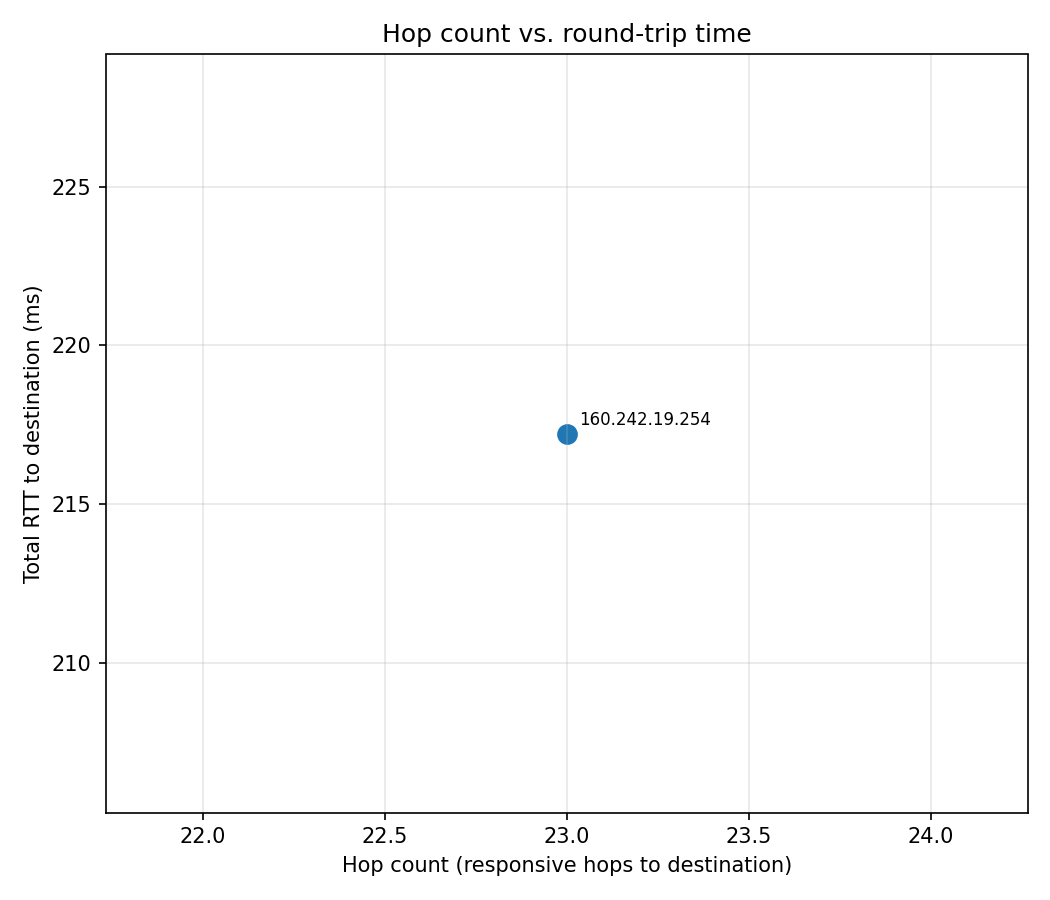
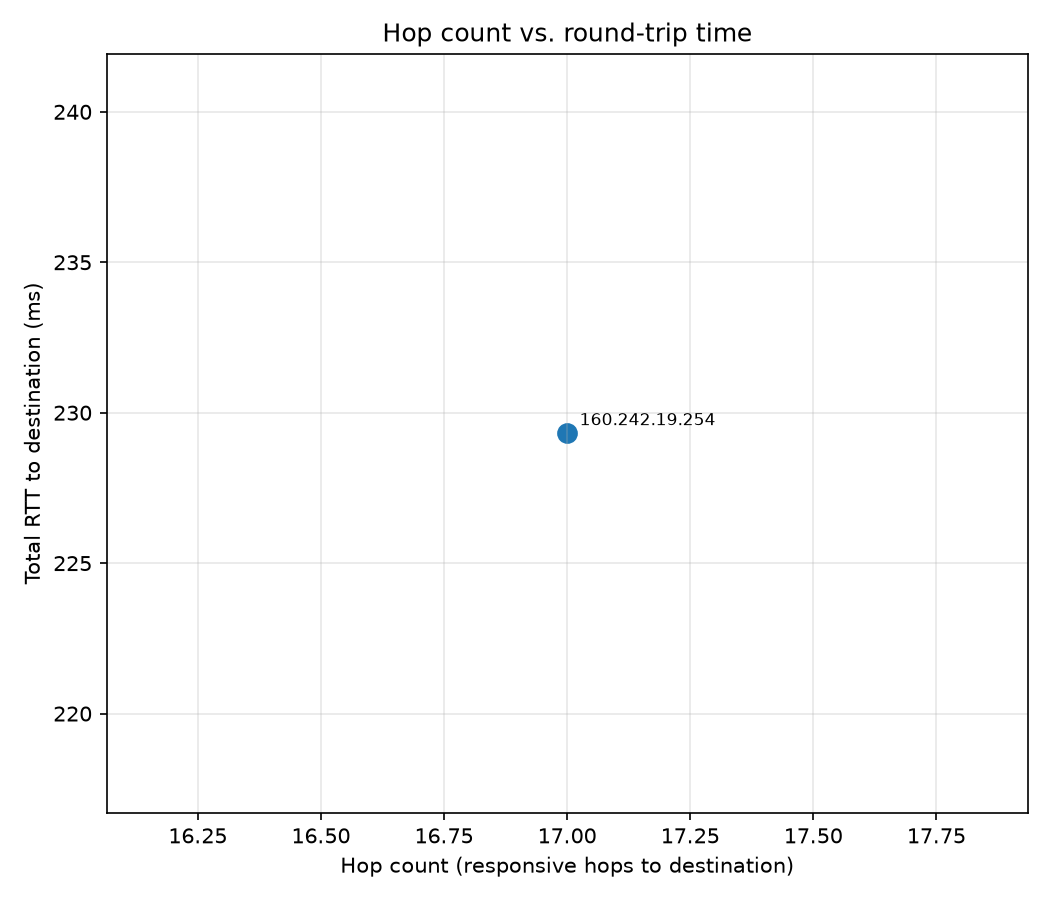
add stackedbar chart code

diff --git a/part_2.py b/part_2.py
@@ -1,10 +1,12 @@
 import subprocess
 import matplotlib.pyplot as plt
+import numpy as np
+import pandas as pd
 
-def part_2(df):
+def part_2(df, num_rows=5):
     mapping = {}
 
-    for idx, row in df.head(5).iterrows():
+    for idx, row in df.head(num_rows).iterrows():
         print("running traceroute for ", row["IP/HOST"])
 
         traceroute_result = subprocess.run([
@@ -36,7 +38,6 @@ def part_2(df):
     return mapping
 
 def plot_scatter(mapping, path="scatter_hopcount_rtt.png"):
-    """(c) Scatter: hop count vs total RTT, one point per destination."""
     fig, ax = plt.subplots(figsize=(7, 6))
     i = 0
     for dest, data in mapping.items():
@@ -54,6 +55,21 @@ def plot_scatter(mapping, path="scatter_hopcount_rtt.png"):
     ax.set_ylabel("Total RTT to destination (ms)")
     ax.set_title("Hop count vs. round-trip time")
     ax.grid(True, alpha=0.3)
+    plt.tight_layout()
+    plt.savefig(path, dpi=150)
+    plt.close()
+    print(f"[*] Saved {path}")
+
+
+def plot_stacked_bar(mapping, path="stacked_bar_latencies.png"):
+    ips = []
+    per_hop_latencies = []
+    for k, v in mapping.items():
+        ips.append(k)
+        per_hop_latencies.append(v["per_hop_latencies"])
+    per_hop_latencies = [[ips[i], *hop] for i, hop in enumerate(per_hop_latencies)]
+    df = pd.DataFrame(per_hop_latencies, columns=["IP Address", *[f"Hop #{i+1}" for i, hop in enumerate(per_hop_latencies[0][1:])]])
+    df.plot(x="IP Address", kind='bar', stacked=True, title="Per Hop Latencies by IP Address")
     plt.tight_layout()
     plt.savefig(path, dpi=150)
     plt.close()

diff --git a/main.py b/main.py
@@ -1,5 +1,5 @@
 from part_1 import part_1
-from part_2 import part_2, plot_scatter
+from part_2 import part_2, plot_scatter, plot_stacked_bar
 
 FILE_PATH = "listed_iperf3_servers.csv"
 
@@ -33,3 +33,4 @@ if __name__ == "__main__":
     else:
         mapping = part_2(df)
         plot_scatter(mapping)
+        plot_stacked_bar(mapping)
